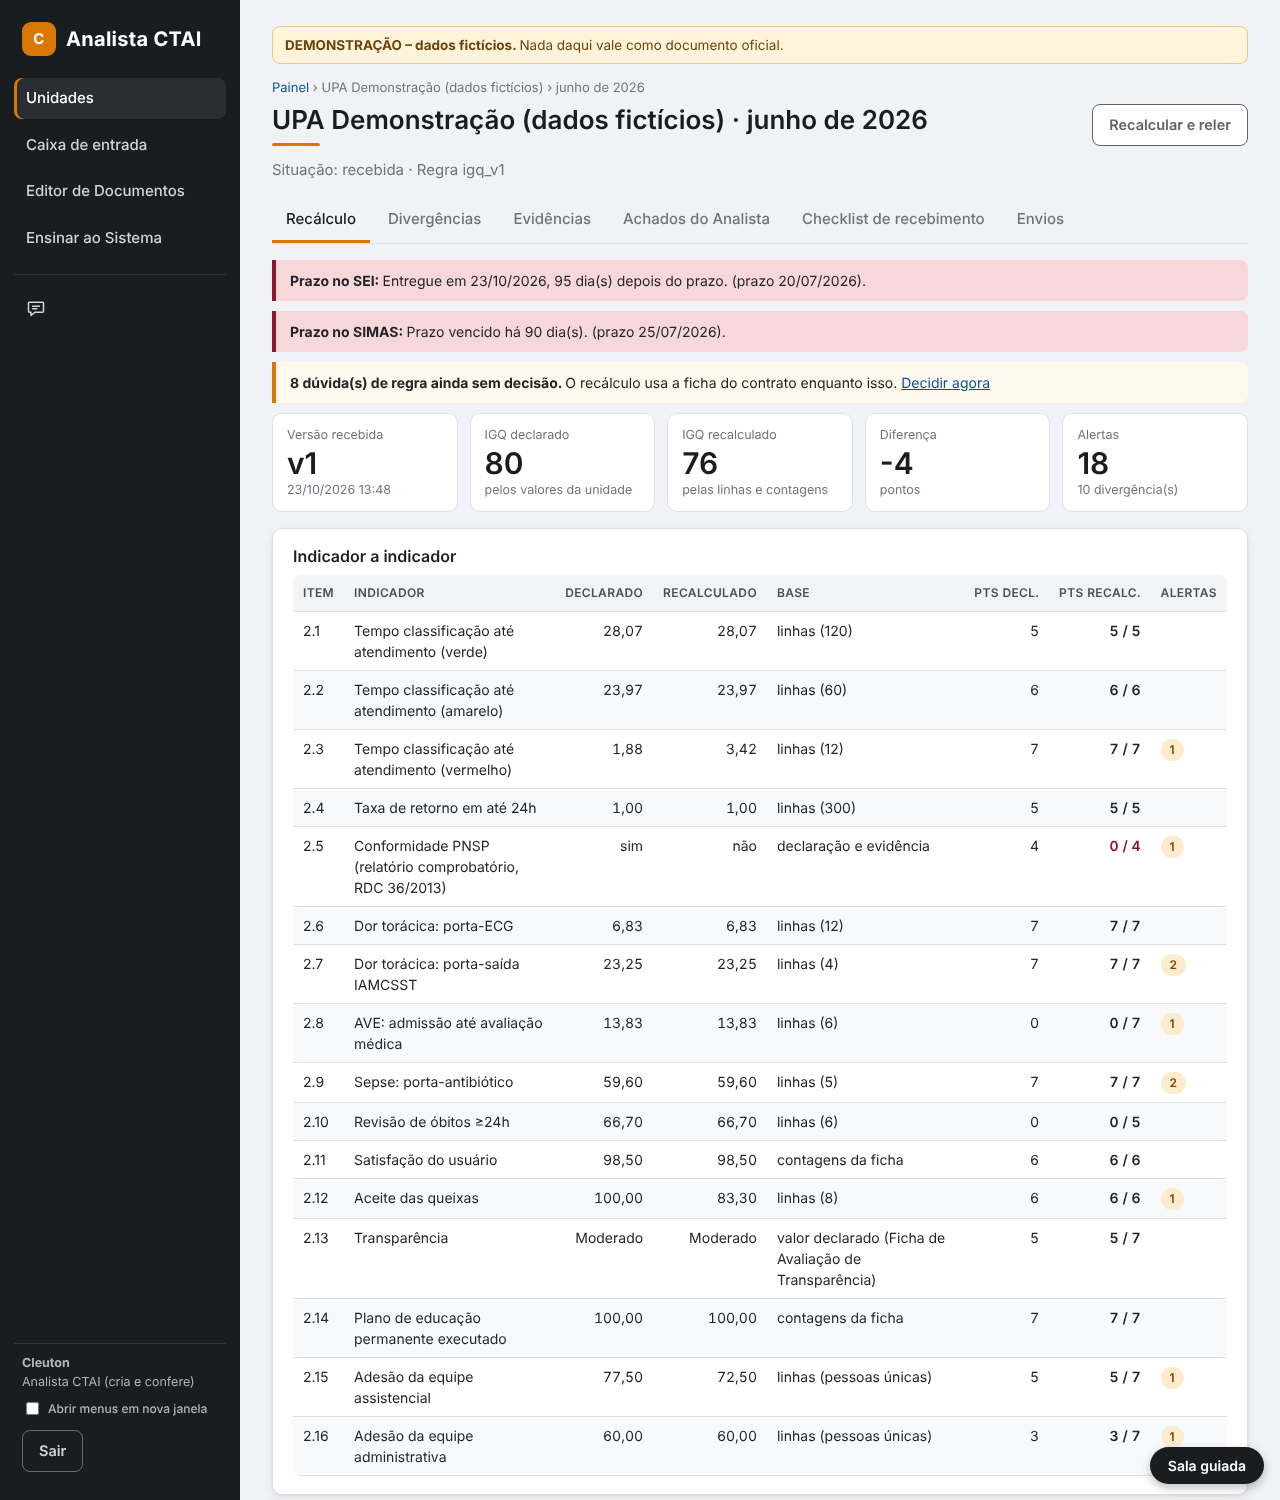
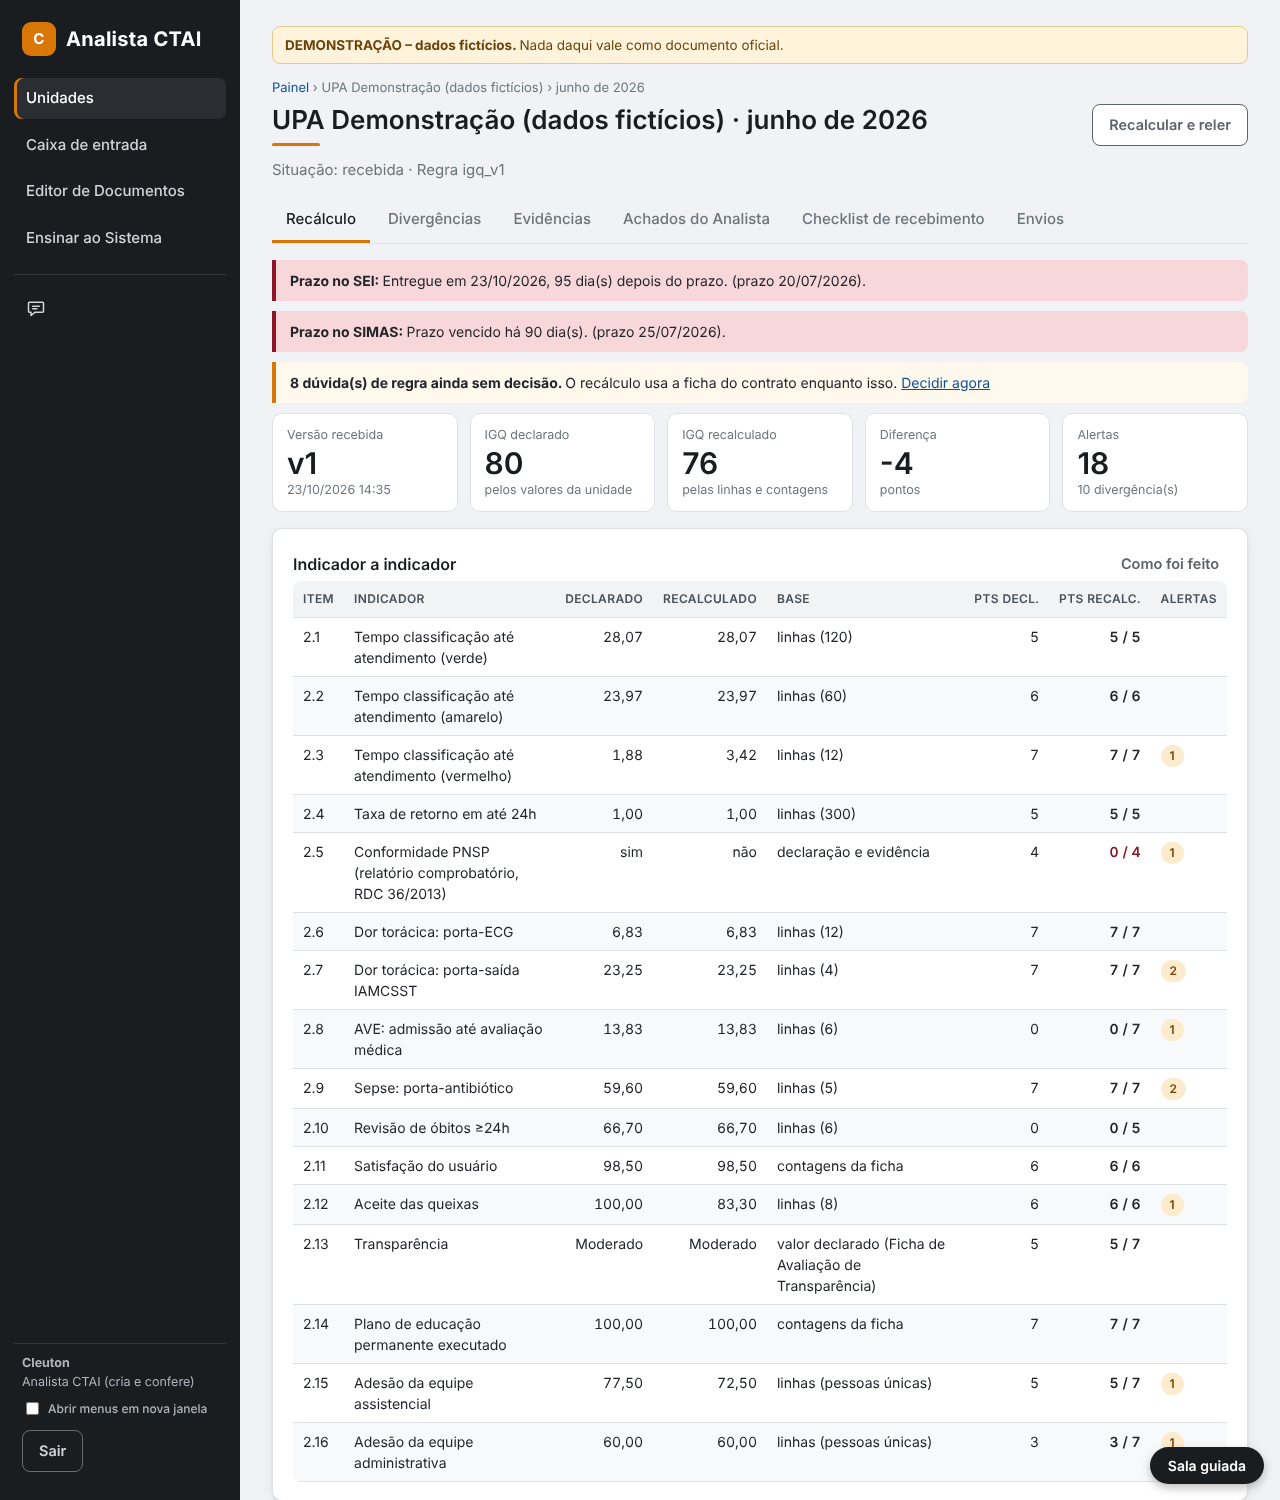
Botão 'Como foi feito' na revisão do parecer e no recálculo dos indicadores
Claude-Session: https://claude.ai/code/session_01TePQBrxAiH7ZoxMsBLHw5s

diff --git a/public/js/ctai.js b/public/js/ctai.js
@@ -94,6 +94,36 @@
       cartaoPrazos(d.prazos)];
   }
 
+  // Botão "Como foi feito": a explicação fica fechada e só abre quando a pessoa pede (passos em linguagem simples).
+  function comoFoi(titulo, intro, passos, limites, fatos) {
+    return h('button', { type: 'button', class: 'leve', title: 'Entenda o que foi conferido e de que jeito', onclick: () => janela(titulo, h('div', { class: 'como-foi' },
+      h('p', null, intro),
+      fatos && fatos.length ? aviso('info', h('strong', null, 'Nesta conferência: '), fatos.join(' · ')) : null,
+      h('ol', { style: 'padding-left:20px' }, passos.map(([t, d]) => h('li', { style: 'margin:8px 0' }, h('strong', null, t), h('div', { class: 'peq mudo' }, d)))),
+      limites ? aviso('atencao', h('strong', null, 'O que isto não faz: '), limites) : null)) }, 'Como foi feito');
+  }
+  const COMO_RECALCULO = () => comoFoi('Como o recálculo é feito',
+    'O sistema refaz a conta de cada indicador do jeito que a equipe fazia nas tabelas, só que a partir dos dados que a unidade enviou. Nada é alterado no que a unidade declarou: os dois valores ficam lado a lado.',
+    [['1. Lê o que a unidade enviou', 'Os valores digitados nas fichas, as contagens de apoio e as listas (linhas) de atendimentos, óbitos, queixas, pessoas capacitadas e transferências.'],
+     ['2. Escolhe a melhor base para cada indicador', 'Se há lista com horários, calcula a partir dela ("linhas"). Se há só contagens, usa as contagens da ficha. Se não há nada para recalcular, repete o valor declarado e avisa. A coluna "Base" mostra qual foi usada e quantos casos entraram.'],
+     ['3. Faz a conta', 'Tempo médio = soma dos minutos ÷ número de casos. Taxas = parte ÷ total × 100. Linhas sem tempo válido ficam de fora e são avisadas.'],
+     ['4. Aplica a faixa de pontos do contrato', 'O valor recalculado é comparado com as faixas da ficha do contrato (passe o mouse no nome do indicador para ver as faixas). Daí saem os pontos recalculados, de 0 até o máximo do indicador.'],
+     ['5. Compara com o declarado', 'Se os pontos mudam, o número aparece em vermelho. Se só o valor muda mas a faixa é a mesma, fica registrado sem mudar a pontuação.'],
+     ['6. Procura sinais de problema', 'Amostra pequena (menos de 10 casos), média muito perto do limite, cobertura baixa, números redondos demais, listas incompletas, resposta copiada, contagens diferentes entre abas. Cada sinal vira um alerta com a gravidade.'],
+     ['7. Soma o IGQ e calcula o desconto', 'A soma dos pontos dá o IGQ recalculado. O desconto segue a regra do contrato e o mês de implantação (sem desconto). Dúvidas de regra aparecem no topo até alguém decidir.']],
+    'Não valida a fonte (SIMAS, relatórios da OSS) nem prova que o dado enviado é verdadeiro: confere só se o que foi enviado é coerente e se a conta está certa. Quem decide o ponto que vale é a CTAI, na etapa "Pontos adotados" do parecer.');
+
+  const COMO_REVISAO = (o) => comoFoi('Como a revisão do parecer foi feita',
+    'A revisão lê o texto do parecer e o compara com os dados do sistema, com as regras e com fontes externas. Ela só aponta: não muda nada no texto. Cada ponto aponta o trecho, o risco e uma sugestão.',
+    [['1. Conferências do próprio sistema', 'Procura seção vazia, campo ainda por preencher, nome de outra unidade, mês fora do período, texto que diz "sem desconto" quando o sistema apurou desconto (e o contrário), texto que diz "todas as metas cumpridas" com indicador parcial no quadro, e IGQ adotado diferente do recalculado.'],
+     ['2. Quadros contra os relatórios', 'Se você importou os relatórios do período, confere se os valores de cada linha dos quadros aparecem nesses relatórios. O que não aparece vira achado.'],
+     ['3. Cadastro do GAOCG', 'Quando a ligação está ativa (ou há cópia), confere o nome da OSS, o número do contrato e se a vigência cobre o período analisado.'],
+     ['4. Leitura do Analista', 'Aplica as regras de redação e, se houver IA ligada, pede uma leitura do texto (nomes de pacientes e dados pessoais são mascarados antes de sair). Considera as normas vigentes da unidade.'],
+     ['5. Busca externa de normas', 'Procura leis, decretos e jurisprudência citados. Para isso só saem as citações e os nomes dos indicadores; o texto do parecer não é enviado.'],
+     ['6. Junta e ordena', 'Tudo vira achado, ordenado por gravidade (alta, média, baixa), fica salvo na fila de achados e é registrado na trilha de auditoria.']],
+    'Não refaz a análise dos indicadores a partir das listas da unidade (isso é o recálculo, na tela da competência), não confere se o dado do SIMAS é verdadeiro e pode deixar passar erro. A IA pode errar: cada achado precisa do seu olhar.',
+    [o.provedor ? 'leitura: ' + o.provedor : null, o.relatorios && o.relatorios.usado ? o.relatorios.n + ' relatório(s) importado(s) usado(s)' : 'sem relatórios importados', o.gaocg && o.gaocg.usado ? 'GAOCG consultado' : 'GAOCG não usado', o.normasDaUnidade ? o.normasDaUnidade + ' norma(s) da unidade' : 'sem normas da unidade cadastradas', o.externa && o.externa.ok ? 'busca externa feita' : 'busca externa indisponível'].filter(Boolean));
+
   // ---------- Competência ----------
   const ABAS = [['recalculo', 'Recálculo'], ['divergencias', 'Divergências'], ['evidencias', 'Evidências'], ['achados', 'Achados do Analista'], ['checklist', 'Checklist de recebimento'], ['envios', 'Envios']];
   async function competencia(p) {
@@ -126,7 +156,7 @@
       prazosTopo,
       decAbertas.length ? aviso('atencao', h('strong', null, decAbertas.length + ' dúvida(s) de regra ainda sem decisão. '), 'O recálculo usa a ficha do contrato enquanto isso. ', h('a', { href: '#/regras/' + d.competencia.contrato_id }, 'Decidir agora')) : null,
       h('div', { class: 'kpis' }, kpi('Versão recebida', 'v' + rec.envio.versao, fmt.data(rec.envio.enviado_em)), kpi('IGQ declarado', rec.igqDeclarado, 'pelos valores da unidade'), kpi('IGQ recalculado', rec.igqRecalculado, 'pelas linhas e contagens'), kpi('Diferença', (dif > 0 ? '+' : '') + dif, dif === 0 ? 'sem diferença' : 'pontos'), kpi('Alertas', String(rec.alertas.length), rec.divergencias.length + ' divergência(s)')),
-      h('div', { class: 'cartao' }, h('h3', null, 'Indicador a indicador'),
+      h('div', { class: 'cartao' }, h('div', { class: 'linha espaco' }, h('h3', { style: 'margin:0' }, 'Indicador a indicador'), COMO_RECALCULO()),
         tabela([{ t: 'Item' }, { t: 'Indicador' }, { t: 'Declarado', n: true }, { t: 'Recalculado', n: true }, { t: 'Base' }, { t: 'Pts decl.', n: true }, { t: 'Pts recalc.', n: true }, { t: 'Alertas' }],
           d.regras.indicadores.map((i) => { const r = rec.indicadores[i.id]; if (!r) return [i.id, i.nome, '—', '—', '—', '—', '—', '']; const mudou = r.pontosDeclarados !== null && r.pontosDeclarados !== r.pontos;
             return [i.id, h('span', { title: i.faixasTexto }, i.nome), fmt.valor(r.valorDeclarado), fmt.valor(r.valor), r.fonteCalculo + (r.n ? ' (' + r.n + ')' : ''), r.pontosDeclarados === null ? '—' : String(r.pontosDeclarados), h('span', { class: 'pontos', style: mudou ? 'color:var(--verm)' : '' }, r.pontos + ' / ' + i.max), r.alertas.filter((a) => a.gravidade !== 'baixa').length ? selo(String(r.alertas.filter((a) => a.gravidade !== 'baixa').length), 'atencao') : '']; }))),
@@ -455,7 +485,7 @@
         await api('PUT', base + '/modelo', lerTudo());
         const o = await api('POST', '/api/analista/pareceres/' + P.parecer_id + '/revisao-completa', {});
         const ex = o.externa || {};
-        troca(caixaRev, h('p', { class: 'peq mudo' }, o.achados.length + ' achado(s) · ' + o.provedor + (o.relatorios && o.relatorios.usado ? ' · quadros conferidos com ' + o.relatorios.n + ' relatório(s) importado(s)' : '') + (o.gaocg && o.gaocg.usado ? ' · conferido com o GAOCG (' + (o.gaocg.da_copia ? 'cópia de ' : 'lido às ') + new Date(o.gaocg.lido_em).toLocaleTimeString('pt-BR', { hour: '2-digit', minute: '2-digit' }) + ')' : '') + (o.normasDaUnidade ? ' · ' + o.normasDaUnidade + ' norma(s) da unidade consideradas' : '')),
+        troca(caixaRev, h('div', { class: 'linha espaco' }, h('span', { class: 'peq mudo' }, o.achados.length + ' achado(s) · ' + o.provedor + (o.relatorios && o.relatorios.usado ? ' · quadros conferidos com ' + o.relatorios.n + ' relatório(s) importado(s)' : '') + (o.gaocg && o.gaocg.usado ? ' · conferido com o GAOCG (' + (o.gaocg.da_copia ? 'cópia de ' : 'lido às ') + new Date(o.gaocg.lido_em).toLocaleTimeString('pt-BR', { hour: '2-digit', minute: '2-digit' }) + ')' : '') + (o.normasDaUnidade ? ' · ' + o.normasDaUnidade + ' norma(s) da unidade consideradas' : '')), COMO_REVISAO(o)),
           o.achados.length ? o.achados.map((a) => achadoCard(a)) : aviso('ok', 'Nenhum achado nas conferências locais e no Analista.'),
           h('h4', null, 'Busca externa (normas e jurisprudência)'),
           ex.ok ? [ex.aviso ? h('p', { class: 'peq mudo' }, ex.aviso) : h('p', { class: 'peq', style: 'white-space:pre-wrap' }, ex.resposta || ''), ex.fontes && ex.fontes.length ? h('ul', { class: 'peq' }, ex.fontes.map((f) => h('li', null, h('a', { href: f.url, target: '_blank', rel: 'noopener noreferrer' }, f.titulo)))) : null]

diff --git a/public/sw.js b/public/sw.js
@@ -1,5 +1,5 @@
 /* Service worker: guarda só os arquivos estáticos (telas, fontes, estilos). Nenhuma resposta da API é guardada. */
-const VERSAO = 'ctai-v47';
+const VERSAO = 'ctai-v48';
 const ESTATICOS = ['/', '/unidade', '/ctai', '/css/app.css', '/js/core.js', '/js/login.js', '/js/unidade.js', '/js/ctai.js', '/js/pagina-unidade.js', '/js/documentos.js', '/js/ensinar.js', '/js/comece-aqui.js', '/js/sala-guiada.js', '/css/sala-guiada.css', '/js/usuario-form.js', '/js/rack-ia.js', '/js/gestao.js', '/js/caixa.js', '/js/mensageiro.js', '/icons/icon.svg'];
 self.addEventListener('install', (e) => { e.waitUntil(caches.open(VERSAO).then((c) => c.addAll(ESTATICOS).catch(() => {})).then(() => self.skipWaiting())); });
 self.addEventListener('activate', (e) => { e.waitUntil(caches.keys().then((ks) => Promise.all(ks.filter((k) => k !== VERSAO).map((k) => caches.delete(k)))).then(() => self.clients.claim())); });
